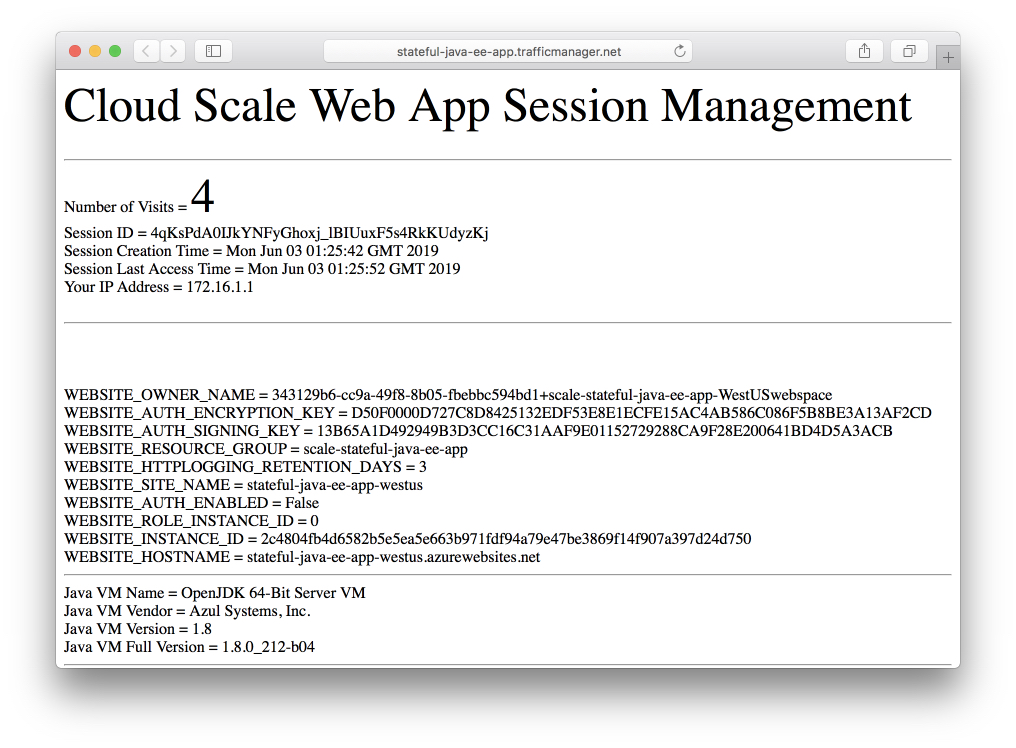
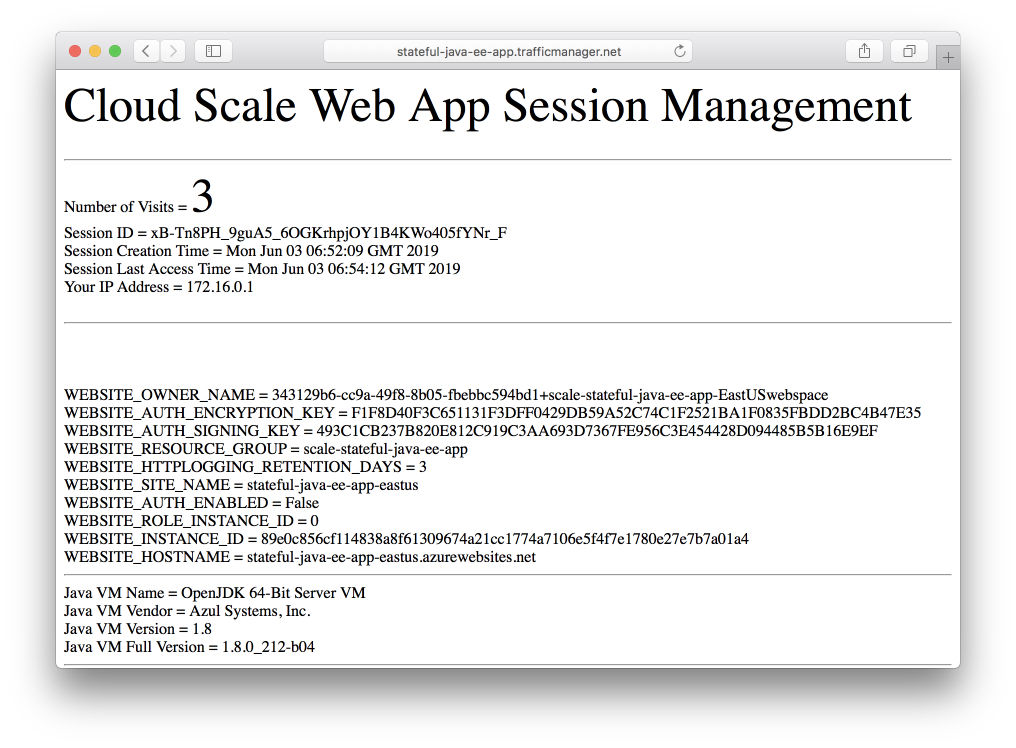
Added newer scaling out shots (#4)

diff --git a/README.md b/README.md
@@ -758,8 +758,8 @@ Refresh the browser:
 
 Failover SUCCEEDED because the session tracking begins,
 particularly, once the connection breaks, the client 
-is round robined to another server in East US data center,
-then the correlation is continued, tracks to `Number of Visits = 2`, 
+is round robined to another server in West US data center,
+then the correlation is continued, tracks to `Number of Visits = 4`, 
 using externalized sessions.
 
 You can check out the contents of the session table in the Azure SQL Database:
